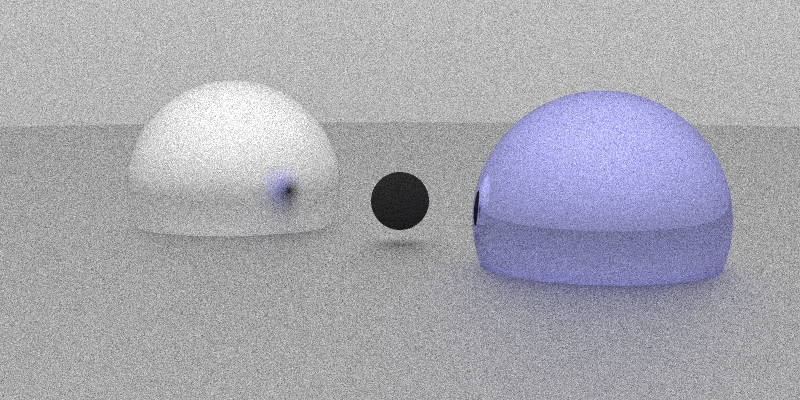
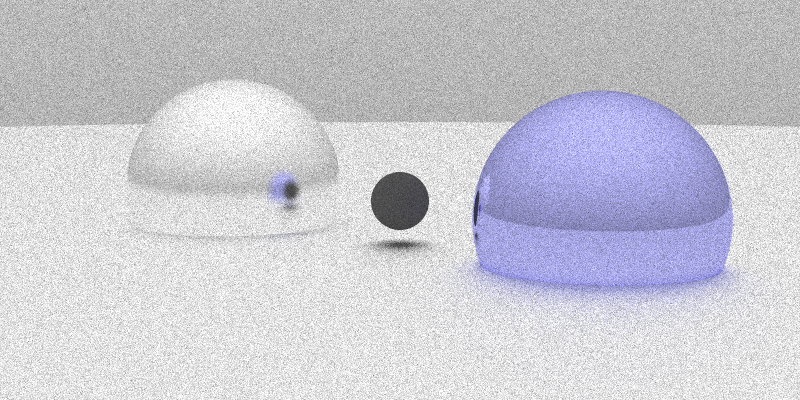
push

diff --git a/trace.cpp b/trace.cpp
@@ -80,19 +80,13 @@ void forward_trace(ray &r, int iter){
 		// lambertian
 		// r.d = (t.norm+rng::uniform_norm()).norm();
 
-		// multimodal (experimental)
-		vec surface = rng::uniform_norm();
-		if(t.norm.dot(surface) < 0.0) surface *= -1.0;
+		vec surface = ((t.norm+rng::uniform_norm()).norm()-r.d).norm();
 		surface = surface.lerp(t.norm, t.mat.shine).norm();
 		r.d = r.d - surface * 2.0 * r.d.dot(surface);
-		r.c *= surface.dot(t.norm);
 
 		if(iter > 0) forward_trace(r, iter-1);
 	}
 }
-
-// const char *model = "lambert";
-const char *model = "multimodal";
 
 bool backward_trace(ray &r, int iter){
 	touch t = hit(r);
@@ -102,27 +96,16 @@ bool backward_trace(ray &r, int iter){
 
 		r.p = t.p;
 
-		if(model == "lambert"){
-			// lambertian (classic)
-			r.d = (t.norm+rng::uniform_norm()).norm();
-
-		}else{
-			// multimodal (experimental)
-			vec surface = rng::uniform_norm();
-			if(t.norm.dot(surface) < 0.0) surface *= -1.0;
-			surface = surface.lerp(t.norm, t.mat.shine).norm();
-			r.d = r.d - surface * 2.0 * r.d.dot(surface);
-			r.c *= surface.dot(t.norm);
-		}
+		vec surface = ((t.norm+rng::uniform_norm()).norm()-r.d).norm();
+		surface = surface.lerp(t.norm, t.mat.shine).norm();
+		r.d = r.d - surface * 2.0 * r.d.dot(surface);
 
 		if(iter > 0) return backward_trace(r, iter-1);
 
 		return false;
 
 	}else{
-		vec sky = {0, 1, 0};
-		double x = r.d.dot(sky)*0.5 + 0.5;
-		r.c *= x;
-		return x > 0.0;
+		r.c *= r.d.y*0.5 + 0.5;
+		return true;
 	}
 }
